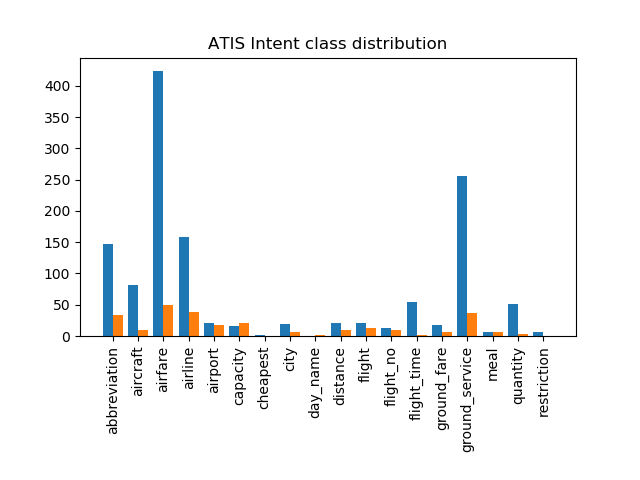
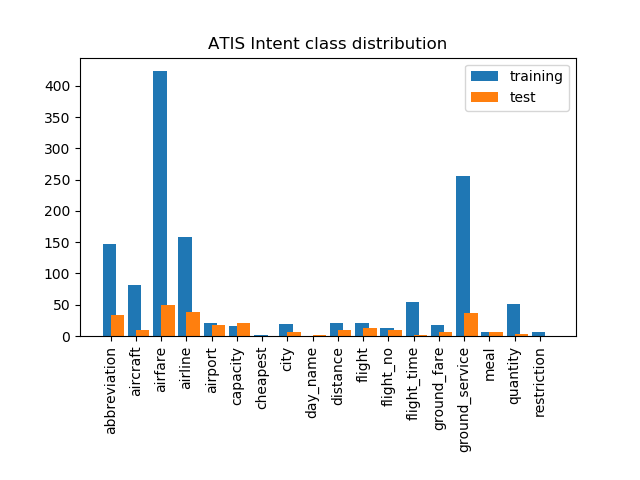
Add legend to joint intent distribution plot

diff --git a/benchmark/analyze_data.py b/benchmark/analyze_data.py
@@ -55,9 +55,14 @@ def plot_distribution_joint_plot(tr_data, test_data, labels, plot_number, plot_t
     plt.figure(plot_number)
     # plt.bar(x_pos, data, color='blue', align='center')
     # plt.xticks(x_pos, labels, rotation='vertical')
-    subcategorybar(labels, [tr_data, test_data])
+    width = 0.8
+    plt.bar(x_pos - width / 2. * width, tr_data, width=width / 1.5, align="edge", label='training')
+    plt.bar(x_pos - width / 2. + 1 / 2. * width, test_data, width=width / 1.5, align="edge", label='test')
+    plt.xticks(x_pos, labels, rotation='vertical')
+    # subcategorybar(labels, [tr_data, test_data])
     plt.gcf().subplots_adjust(bottom=0.3)
     plt.title(plot_title)
+    plt.legend(loc='upper right')
     if ylim_top is not None:
         plt.ylim(top=ylim_top)
     if save_file and filename is not None:
